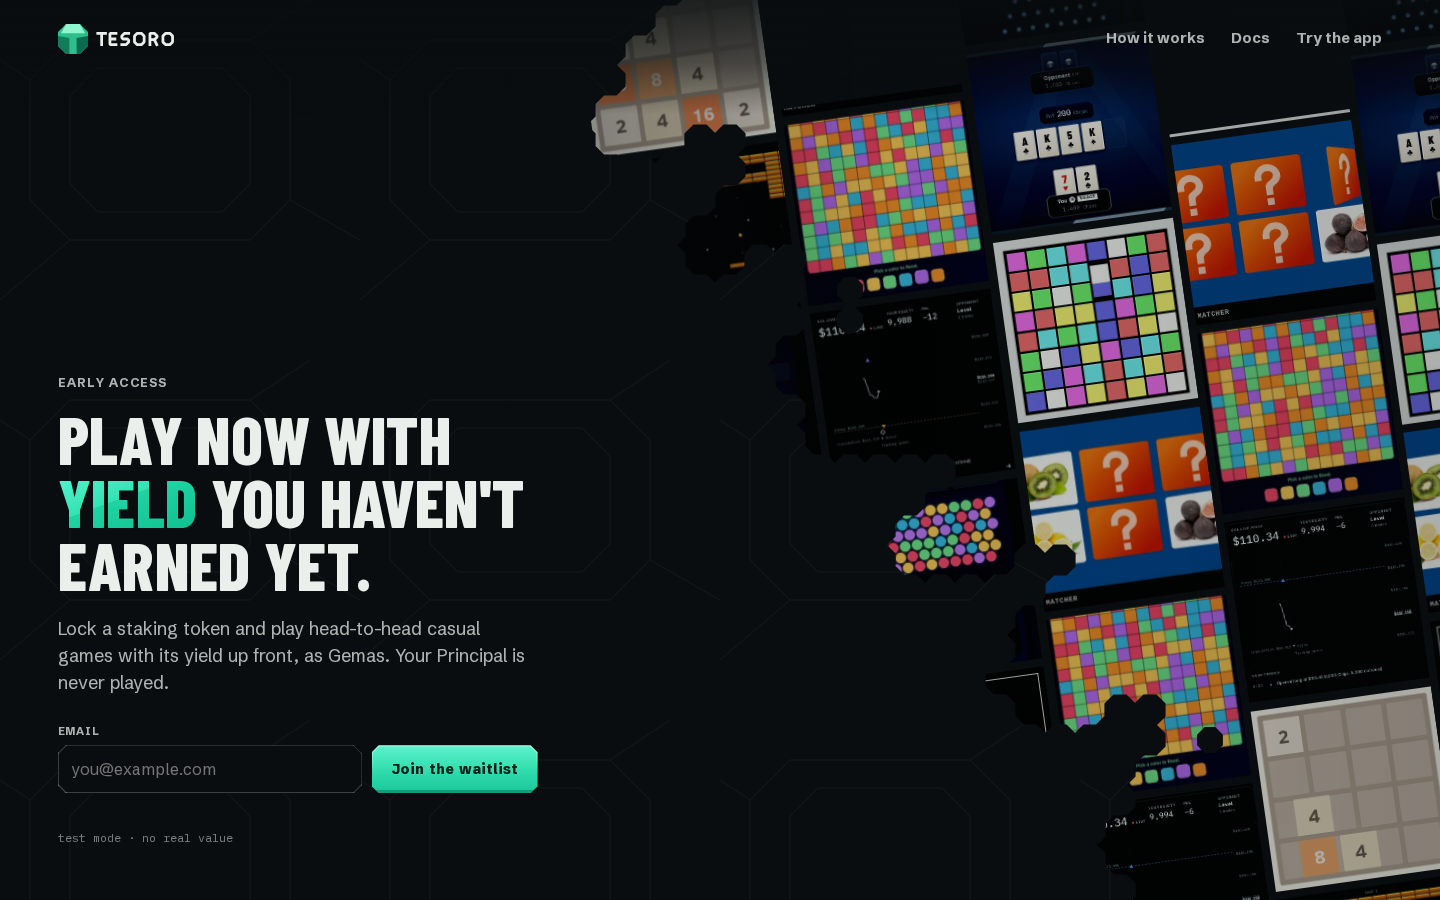
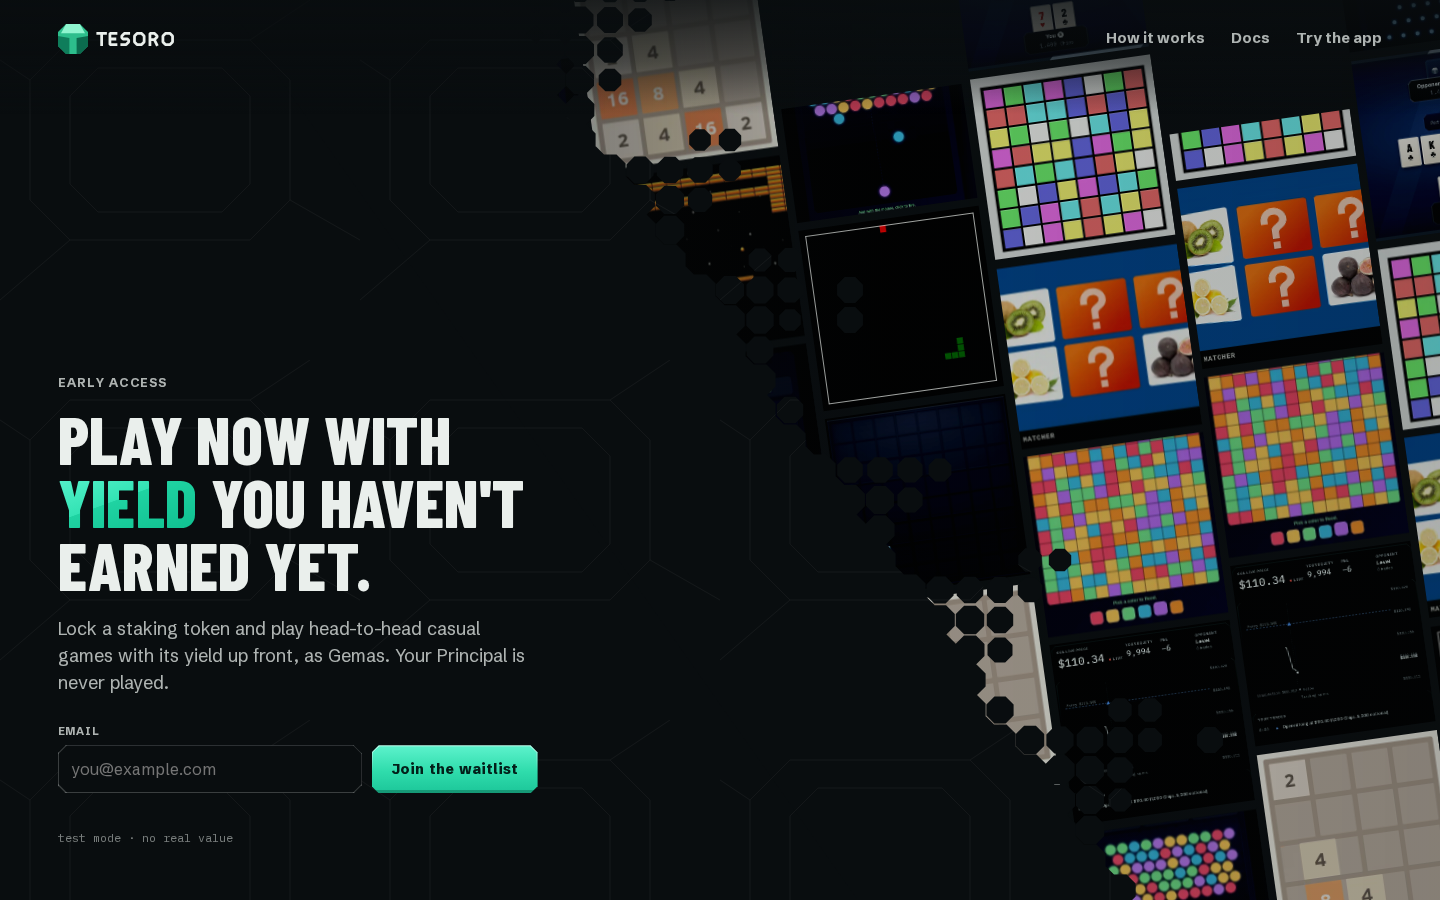
feat(app): waitlist divider keeps g1's fingers, adds spacing between growth gems
Growth-zone gems are no longer fused: each is drawn smaller than its cell so a thin gap of footage shows. Three spacings under ?s=1|2|3 (tight 86%, graded 100 to 72%, open graded 100 to 62% with more breakaways), default graded. Removes the other growth tunings and the g switcher.

Changed region(s): [[0.4062, 0.0, 1.0, 1.0], [0.5, 0.28, 0.5312, 0.3111]]

diff --git a/app/src/components/waitlist/dividers/octa.ts b/app/src/components/waitlist/dividers/octa.ts
@@ -9,8 +9,8 @@ import { along, bed, dist, geo, polyD, type Frame, type Geo, type Pt } from "./g
  */
 export const TILE_CENTRE = { x: 160, y: 140 };
 
-/** 1 fingers, 2 clumps, 3 mixed. */
-export type Tuning = 1 | 2 | 3;
+/** How tightly the growth zone's gems pack: 1 tight, 2 graded, 3 open graded. */
+export type Spacing = 1 | 2 | 3;
 
 export type Field = { g: Geo; frame: Frame; pitch: number; /** solid band, px past the diagonal */ band: number; /** size factor against 1440 wide */ unit: number };
 
@@ -28,38 +28,19 @@ export function hash(a: number, b: number, salt = 0) {
   return ((h ^ (h >>> 16)) >>> 0) / 4294967296;
 }
 
-type Bump = { c: number; w: number; a: number };
 
-/** How far past the band each stretch of the diagonal may grow, px: a few seeded bumps over a small base. */
-function reachProfile(fl: Field, tuning: Tuning): (s: number) => number {
+/** How far past the band each stretch of the diagonal may grow, px: 5 to 7 long fingers (6 on desktop, 3 on a phone) over a small base. */
+function reachProfile(fl: Field): (s: number) => number {
   const { len } = fl.g;
   const u = fl.unit;
-  const tall = fl.frame.kind === "tall";
-  const bumps: Bump[] = [];
-  const spread = (n: number, salt: number, width: (r: number) => number, amp: (r: number) => number) => {
-    for (let k = 0; k < n; k++) {
-      const r = hash(k, salt, 7);
-      bumps.push({ c: (len * (k + 0.5 + (hash(k, salt, 8) - 0.5) * 0.5)) / n, w: width(r) * u, a: amp(r) * u });
-    }
-  };
-  let base = 14;
-  if (tuning === 1) {
-    // Fewer, longer fingers: 5 to 7 across the diagonal.
-    spread(tall ? 3 : 6, 1, (r) => 34 + r * 20, (r) => 115 + r * 70);
-    base = 10;
-  } else if (tuning === 2) {
-    // Rounded lumps along the front, shorter reach.
-    spread(tall ? 5 : 9, 2, (r) => 62 + r * 30, (r) => 40 + r * 55);
-    base = 18;
-  } else {
-    // Lumps with a couple of longer fingers.
-    spread(tall ? 4 : 7, 3, (r) => 56 + r * 26, (r) => 36 + r * 50);
-    const fingers = tall ? [0.3, 0.72] : [0.22, 0.63];
-    fingers.forEach((f, k) => bumps.push({ c: len * (f + (hash(k, 4, 9) - 0.5) * 0.08), w: 30 * u, a: (150 + hash(k, 5, 9) * 40) * u }));
-    base = 14;
+  const n = fl.frame.kind === "tall" ? 3 : 6;
+  const bumps: { c: number; w: number; a: number }[] = [];
+  for (let k = 0; k < n; k++) {
+    const r = hash(k, 1, 7);
+    bumps.push({ c: (len * (k + 0.5 + (hash(k, 1, 8) - 0.5) * 0.5)) / n, w: (34 + r * 20) * u, a: (115 + r * 70) * u });
   }
   return (s) => {
-    let r = base * u;
+    let r = 10 * u;
     for (const b of bumps) r = Math.max(r, b.a * Math.exp(-(((s - b.c) / b.w) ** 2)));
     return r;
   };
@@ -67,13 +48,13 @@ function reachProfile(fl: Field, tuning: Tuning): (s: number) => number {
 
 export type Site = { i: number; j: number; x: number; y: number; d: number; s: number };
 /** 1 solid band, 2 grown (connected), 3 breakaway. */
-export type Growth = { fl: Field; state: Map<number, 1 | 2 | 3>; sites: Site[]; at: (i: number, j: number) => 0 | 1 | 2 | 3 };
+export type Growth = { fl: Field; state: Map<number, 1 | 2 | 3>; sites: Site[]; at: (i: number, j: number) => 0 | 1 | 2 | 3; /** how far the growth may reach past the band at this position along the diagonal */ reachAt: (s: number) => number };
 
 /** The grown layout for a frame: which lattice sites carry a gem and of which kind. */
-export function growth(frame: Frame, tuning: Tuning = 1): Growth {
+export function growth(frame: Frame, breakShare = 0.06): Growth {
   const fl = field(frame);
   const { g, pitch, band } = fl;
-  const profile = reachProfile(fl, tuning);
+  const profile = reachProfile(fl);
   const i0 = Math.floor((-TILE_CENTRE.x - pitch) / pitch);
   const j0 = Math.floor((-TILE_CENTRE.y - pitch) / pitch);
   const key = (i: number, j: number) => (i + 4096) * 8192 + (j + 4096);
@@ -112,8 +93,7 @@ export function growth(frame: Frame, tuning: Tuning = 1): Growth {
   }
   // Breakaway gems: a few, one empty cell beyond a clump tip, never touching one.
   const grown = sites.filter((s) => state.get(key(s.i, s.j)) === 2).length;
-  const share = tuning === 2 ? 0.04 : tuning === 3 ? 0.08 : 0.06;
-  const want = Math.max(tuning === 2 ? 2 : 3, Math.round(grown * share));
+  const want = Math.max(3, Math.round(grown * breakShare));
   const near = new Set<number>();
   const taken = (i: number, j: number) => state.has(key(i, j));
   const fused = sites.filter((s) => s.d > band + pitch);
@@ -139,7 +119,7 @@ export function growth(frame: Frame, tuning: Tuning = 1): Growth {
     state.set(key(p.site.i, p.site.j), 3);
     sites.push(p.site);
   }
-  return { fl, state, sites, at: (i, j) => state.get(key(i, j)) ?? 0 };
+  return { fl, state, sites, at: (i, j) => state.get(key(i, j)) ?? 0, reachAt: profile };
 }
 
 /** A regular octagon centred at cx, cy measuring `flats` across its flat sides. */
@@ -148,28 +128,44 @@ export function octagon(cx: number, cy: number, flats: number): Pt[] {
   return Array.from({ length: 8 }, (_, k): Pt => [cx + r * Math.cos(Math.PI / 8 + (k * Math.PI) / 4), cy + r * Math.sin(Math.PI / 8 + (k * Math.PI) / 4)]);
 }
 
-/** The ground strip and every gem (as one path), for a frame of this size. Fused gems get the diamonds between them filled. */
-export function dividerScene(frame: Frame, tuning: Tuning = 1): { ground: string; gems: string } {
-  const gr = growth(frame, tuning);
-  const { pitch } = gr.fl;
-  const solid = (i: number, j: number) => {
-    const s = gr.at(i, j);
-    return s === 1 || s === 2;
-  };
+/** Smallest gem size (share of the cell) at a finger tip, per spacing; the band and the foot of a finger are fused (1). */
+const TIP = { 1: 0.86, 2: 0.72, 3: 0.62 } as const;
+
+/** A grown gem's size as a share of its cell: `along` is how far out it is on its finger (0 at the band, 1 at the tip). */
+export function gemSize(spacing: Spacing, along: number): number {
+  if (spacing === 1) return TIP[1];
+  return 1 - (1 - TIP[spacing]) * Math.min(Math.max(along, 0), 1);
+}
+
+/** The ground strip and every gem (as one path), for a frame of this size. The band is fused (diamonds between its gems filled); the growth zone keeps a gap between gems. */
+export function dividerScene(frame: Frame, spacing: Spacing = 2): { ground: string; gems: string } {
+  const gr = growth(frame, spacing === 3 ? 0.1 : 0.06);
+  const { pitch, band } = gr.fl;
+  // Size share per fused site: the band is solid, grown gems shrink towards the tips.
+  const size = (s: Site, kind: number) => (kind === 1 ? 1.04 : kind === 3 ? 0.86 : gemSize(spacing, (s.d - band) / Math.max(gr.reachAt(s.s), 1)));
+  const bySite = new Map<string, { kind: number; size: number }>();
+  for (const s of gr.sites) {
+    const kind = gr.at(s.i, s.j);
+    bySite.set(`${s.i},${s.j}`, { kind, size: size(s, kind) });
+  }
   let gems = "";
   const done = new Set<string>();
   for (const s of gr.sites) {
-    const kind = gr.at(s.i, s.j);
-    gems += polyD(octagon(s.x, s.y, pitch * (kind === 3 ? 0.86 : 1.04)));
-    if (kind === 3) continue;
-    // The four diamonds around this gem: filled where three or more of the four sites around them are fused.
+    const me = bySite.get(`${s.i},${s.j}`)!;
+    gems += polyD(octagon(s.x, s.y, pitch * me.size));
+    if (me.kind === 3) continue;
+    // The four diamonds around this gem: filled where three or more of the sites around them are in the band, or are
+    // fused gems that still fill their cell.
     for (const [a, b] of [[0, 0], [-1, 0], [0, -1], [-1, -1]]) {
       const i = s.i + a;
       const j = s.j + b;
       const id = `${i},${j}`;
       if (done.has(id)) continue;
       done.add(id);
-      if ([solid(i, j), solid(i + 1, j), solid(i, j + 1), solid(i + 1, j + 1)].filter(Boolean).length < 3) continue;
+      const around = [[i, j], [i + 1, j], [i, j + 1], [i + 1, j + 1]].map(([x, y]) => bySite.get(`${x},${y}`));
+      const inBand = around.filter((c) => c?.kind === 1).length;
+      const full = around.filter((c) => c && c.kind !== 3 && c.size >= 0.97).length;
+      if (inBand < 3 && full < 3) continue;
       const cx = TILE_CENTRE.x + (i + 0.5) * pitch;
       const cy = TILE_CENTRE.y + (j + 0.5) * pitch;
       const r = pitch * 0.2929 * 1.08;

diff --git a/app/src/components/waitlist/dividers/octa.test.ts b/app/src/components/waitlist/dividers/octa.test.ts
@@ -1,6 +1,6 @@
 import { describe, expect, it } from "vitest";
 import { LINES } from "../geometry";
-import { dividerScene, growth, type Tuning } from "./octa";
+import { dividerScene, gemSize, growth, type Spacing } from "./octa";
 import type { Frame } from "./geo";
 
 const FRAMES: Frame[] = [
@@ -8,7 +8,7 @@ const FRAMES: Frame[] = [
   { w: 1280, h: 720, kind: "wide" },
   { w: 390, h: 844, kind: "tall" },
 ];
-const TUNINGS: Tuning[] = [1, 2, 3];
+const SPACINGS: Spacing[] = [1, 2, 3];
 
 describe("the split", () => {
   it("divides the wide frame about in half", () => {
@@ -18,47 +18,56 @@ describe("the split", () => {
 });
 
 describe("the growth", () => {
-  for (const tuning of TUNINGS) {
-    for (const f of FRAMES) {
-      const name = `tuning ${tuning} at ${f.w}x${f.h}`;
-      it(`${name}: draws finite shapes, the same ones each time`, () => {
-        const a = dividerScene(f, tuning);
+  for (const f of FRAMES) {
+    const name = `${f.w}x${f.h}`;
+    it(`${name}: grown gems are connected to the band, breakaways stand apart and are few`, () => {
+      const gr = growth(f);
+      const grown = gr.sites.filter((s) => gr.at(s.i, s.j) === 2);
+      const away = gr.sites.filter((s) => gr.at(s.i, s.j) === 3);
+      expect(grown.length).toBeGreaterThan(10);
+      for (const s of grown) {
+        expect([[1, 0], [-1, 0], [0, 1], [0, -1]].some(([a, b]) => [1, 2].includes(gr.at(s.i + a, s.j + b)))).toBe(true);
+      }
+      for (const s of away) {
+        for (const a of [-1, 0, 1]) for (const b of [-1, 0, 1]) expect([1, 2]).not.toContain(gr.at(s.i + a, s.j + b));
+      }
+      expect(away.length).toBeLessThanOrEqual(Math.max(3, Math.ceil(grown.length * 0.1)));
+    });
+
+    it(`${name}: the band is solid and the growth stays within reach`, () => {
+      const gr = growth(f);
+      const { band, unit } = gr.fl;
+      expect(Math.max(...gr.sites.filter((s) => gr.at(s.i, s.j) === 2).map((s) => s.d - band))).toBeLessThanOrEqual(270 * unit);
+      for (const s of gr.sites) if (s.d <= band) expect(gr.at(s.i, s.j)).toBe(1);
+    });
+
+    for (const sp of SPACINGS) {
+      it(`${name}, spacing ${sp}: finite shapes, the same ones each time`, () => {
+        const a = dividerScene(f, sp);
         expect(a.gems.length).toBeGreaterThan(2000);
         expect(a.gems + a.ground).not.toMatch(/NaN|Infinity/);
-        expect(dividerScene(f, tuning)).toEqual(a);
-      });
-
-      it(`${name}: grown gems are connected to the band, breakaways stand apart and are few`, () => {
-        const gr = growth(f, tuning);
-        const grown = gr.sites.filter((s) => gr.at(s.i, s.j) === 2);
-        const away = gr.sites.filter((s) => gr.at(s.i, s.j) === 3);
-        expect(grown.length).toBeGreaterThan(10);
-        for (const s of grown) {
-          const linked = [[1, 0], [-1, 0], [0, 1], [0, -1]].some(([a, b]) => [1, 2].includes(gr.at(s.i + a, s.j + b)));
-          expect(linked).toBe(true);
-        }
-        for (const s of away) {
-          for (const a of [-1, 0, 1]) for (const b of [-1, 0, 1]) expect([1, 2]).not.toContain(gr.at(s.i + a, s.j + b));
-        }
-        expect(away.length).toBeLessThanOrEqual(Math.max(3, Math.ceil(grown.length * 0.1)));
-      });
-
-      it(`${name}: the band is solid and the growth stays within reach`, () => {
-        const gr = growth(f, tuning);
-        const { band, unit } = gr.fl;
-        const reach = Math.max(...gr.sites.filter((s) => gr.at(s.i, s.j) === 2).map((s) => s.d - band));
-        expect(reach).toBeLessThanOrEqual(270 * unit);
-        for (const s of gr.sites) if (s.d <= band) expect(gr.at(s.i, s.j)).toBe(1);
+        expect(dividerScene(f, sp)).toEqual(a);
       });
     }
   }
 
-  it("the tunings differ: fingers reach further than clumps", () => {
+  it("more breakaway gems with the open spacing", () => {
     const f = FRAMES[0];
-    const far = (t: Tuning) => {
-      const gr = growth(f, t);
-      return Math.max(...gr.sites.filter((s) => gr.at(s.i, s.j) === 2).map((s) => s.d));
-    };
-    expect(far(1)).toBeGreaterThan(far(2));
+    const count = (sp: Spacing) => (dividerScene(f, sp).gems.match(/M/g) ?? []).length;
+    expect(count(3)).toBeGreaterThanOrEqual(count(2));
+  });
+});
+
+describe("gem size", () => {
+  it("tight is uniform at 86%", () => {
+    for (const t of [0, 0.5, 1]) expect(gemSize(1, t)).toBe(0.86);
+  });
+  it("graded shrinks from fused to 72% at the tips, open graded to 62%", () => {
+    expect(gemSize(2, 0)).toBe(1);
+    expect(gemSize(2, 1)).toBeCloseTo(0.72);
+    expect(gemSize(3, 0)).toBe(1);
+    expect(gemSize(3, 1)).toBeCloseTo(0.62);
+    expect(gemSize(2, 0.5)).toBeGreaterThan(gemSize(2, 1));
+    expect(gemSize(2, 2)).toBeCloseTo(0.72);
   });
 });

diff --git a/app/src/components/waitlist/DividerLive.tsx b/app/src/components/waitlist/DividerLive.tsx
@@ -3,7 +3,7 @@
 import { useSyncExternalStore } from "react";
 import { DividerSvg } from "./DividerSvg";
 import type { Frame, Kind } from "./dividers/geo";
-import type { Tuning } from "./dividers/octa";
+import type { Spacing } from "./dividers/octa";
 
 const subscribe = (notify: () => void) => {
   addEventListener("resize", notify);
@@ -15,43 +15,43 @@ const frameKey = () => {
   return el ? `${el.clientWidth}x${el.clientHeight}x${matchMedia("(max-width: 640px)").matches ? "tall" : "wide"}` : "";
 };
 
-const subscribeTuning = (notify: () => void) => {
+const subscribeSpacing = (notify: () => void) => {
   addEventListener("popstate", notify);
   return () => removeEventListener("popstate", notify);
 };
-/** `?g=1|2|3` picks a growth tuning while the founder compares them; empty otherwise. */
-const tuningParam = () => new URLSearchParams(location.search).get("g") ?? "";
+/** `?s=1|2|3` picks a spacing while the founder compares them; empty otherwise. */
+const spacingParam = () => new URLSearchParams(location.search).get("s") ?? "";
 
 /** The divider laid out for the frame's real size. It fades in over the server's design-size layout. */
 export function DividerLive() {
   const key = useSyncExternalStore(subscribe, frameKey, () => "");
-  const g = useSyncExternalStore(subscribeTuning, tuningParam, () => "");
+  const sp = useSyncExternalStore(subscribeSpacing, spacingParam, () => "");
   if (!key) return null;
   const [w, h, kind] = key.split("x");
   const frame: Frame = { w: Number(w), h: Number(h), kind: kind as Kind };
-  const tuning = (["1", "2", "3"].includes(g) ? Number(g) : 1) as Tuning;
+  const spacing = (["1", "2", "3"].includes(sp) ? Number(sp) : 2) as Spacing;
   return (
     <>
-      <DividerSvg key={tuning} frame={frame} tuning={tuning} id="dv-live" className="dv dv-live" />
-      {g && <Switcher tuning={tuning} />}
+      <DividerSvg key={spacing} frame={frame} spacing={spacing} id="dv-live" className="dv dv-live" />
+      {sp && <Switcher spacing={spacing} />}
     </>
   );
 }
 
-const NAMES = { 1: "Fingers", 2: "Clumps", 3: "Mixed" } as const;
+const NAMES = { 1: "Tight", 2: "Graded", 3: "Open graded" } as const;
 
-/** Temporary: only while `g` is in the URL. */
-function Switcher({ tuning }: { tuning: Tuning }) {
-  const pick = (k: Tuning) => {
+/** Temporary: only while `s` is in the URL. */
+function Switcher({ spacing }: { spacing: Spacing }) {
+  const pick = (k: Spacing) => {
     const url = new URL(location.href);
-    url.searchParams.set("g", String(k));
+    url.searchParams.set("s", String(k));
     history.replaceState(null, "", url);
     dispatchEvent(new PopStateEvent("popstate"));
   };
   return (
-    <div className="dv-switch" role="group" aria-label="Growth tuning">
+    <div className="dv-switch" role="group" aria-label="Gem spacing">
       {([1, 2, 3] as const).map((k) => (
-        <button key={k} type="button" className="cut cut-chip" aria-pressed={tuning === k} title={NAMES[k]} onClick={() => pick(k)}>
+        <button key={k} type="button" className="cut cut-chip" aria-pressed={spacing === k} title={NAMES[k]} onClick={() => pick(k)}>
           {k}
         </button>
       ))}

diff --git a/app/src/components/waitlist/DividerSvg.tsx b/app/src/components/waitlist/DividerSvg.tsx
@@ -1,4 +1,4 @@
-import { dividerScene, type Tuning } from "./dividers/octa";
+import { dividerScene, type Spacing } from "./dividers/octa";
 import type { Frame } from "./dividers/geo";
 
 /**
@@ -6,8 +6,8 @@ import type { Frame } from "./dividers/geo";
  * origin so the texture runs on across them. Plain markup (no hooks), so the server can draw it too. `stretch` fits a
  * design-size layout to whatever frame it lands in (used for the first paint and without JavaScript).
  */
-export function DividerSvg({ frame, id, className, stretch = false, tuning = 1 }: { frame: Frame; id: string; className: string; stretch?: boolean; tuning?: Tuning }) {
-  const { ground, gems } = dividerScene(frame, tuning);
+export function DividerSvg({ frame, id, className, stretch = false, spacing = 2 }: { frame: Frame; id: string; className: string; stretch?: boolean; spacing?: Spacing }) {
+  const { ground, gems } = dividerScene(frame, spacing);
   return (
     <svg className={className} viewBox={`0 0 ${frame.w} ${frame.h}`} preserveAspectRatio={stretch ? "none" : undefined} aria-hidden focusable="false">
       <defs>

diff --git a/app/src/components/waitlist/waitlist.css b/app/src/components/waitlist/waitlist.css
@@ -64,7 +64,7 @@ html:has(.wl), body:has(.wl) { background: #090d0f; }
 .dv-ssr { transition: opacity 0.6s ease-out; }
 .dv-live { animation: dv-in 0.6s ease-out both; }
 .wl:has(.dv-live) .dv-ssr { opacity: 0; }
-/* Temporary growth switcher (?g=1..3). */
+/* Temporary growth switcher (?s=1..3). */
 .dv-switch { position: fixed; z-index: 60; right: 14px; bottom: 14px; display: flex; gap: 6px; padding: 6px; background: rgba(9, 13, 15, 0.86); border: 1px solid var(--line-2); }
 .dv-switch button { min-width: 34px; min-height: 34px; padding: 0 8px; border: 0; background: var(--raised-2); color: var(--fg); font-weight: 800; --edge: var(--edge-2); }
 .dv-switch button[aria-pressed="true"] { background: var(--fg); color: #090d0f; }

diff --git a/DESIGN.md b/DESIGN.md
@@ -210,8 +210,8 @@ The home page until launch; the landing it replaced is `/welcome`. Code: `app/sr
 - **Layout.** The form is bottom left, the panel's gems break into game footage that fills the other half. The diagonal is one constant (`waitlist/geometry.ts`): the video wall's `clip-path`, the solid floor under the form and the divider are all derived from it, so they line up at every size. Phone: footage in the top ~40%, the form below; the top bar is only the logo and "Try the app" (How it works and Docs sit in a small row under the form), and a top scrim keeps the bar readable over footage at every width.
 - **Background texture.** The floor (everything below the diagonal) carries the landing's octagon outline texture: the same SVG as `--lp-texture` in `landing.css` at the same 360px scale and opacity (repeated in `waitlist.css` as `--wl-texture`, dark version, because the light theme redefines the landing's variable and this frame stays dark).
 - **The split.** The diagonal runs from the top edge at 28% across to the bottom edge at 72%, so the dark panel and the video wall each take half of the wide frame (phone: a flatter line across the middle, top half footage). One constant (`geometry.ts` `LINES`) drives the wall's clip-path, the floor and the divider.
-- **The divider is the panel growing into the footage** (`Divider.tsx`, `dividers/octa.ts`). Small flat octagon gems in exactly the panel's colour and texture (an SVG pattern anchored at the frame origin, so the texture runs on across them), no outlines, shadows, jewel colours or hollow cells. They sit on a 30px grid (20px on a phone) that divides the texture tile and is centred on its octagon centres, so texture lines run along gem rows. A solid band (~76px past the line) is the panel's edge; from it, connected clumps and fingers of fused gems grow outward (deterministic, Eden-like: a seeded reach profile along the diagonal says how far each stretch may grow, only sites linked edge to edge to the band survive, so the tips are ragged and gem-shaped), at most about 260px past the line. Connected gems are fused: the diamond between four sites is filled wherever three or more are fused, so a clump reads as one surface. Only a few breakaway gems (3 to 8% of the growth), one empty cell beyond a tip, and never touching a clump. The floor's straight edge is pulled back under the band (`INSET`, `clipBelowInset`). Static; the exact layout only fades in over the first paint, and not at all under reduced motion.
-- **Growth tunings (under review).** `/?g=1|2|3` with a small switcher (only while `g` is present): 1 fingers (default; 5 to 7 long fingers), 2 clumps (rounded lumps, shortest reach), 3 mixed (lumps, two long fingers, more breakaway gems). Once one is picked, remove the other tunings and the switcher (`DividerLive.tsx`).
+- **The divider is the panel growing into the footage** (`Divider.tsx`, `dividers/octa.ts`). Small flat octagon gems in exactly the panel's colour and texture (an SVG pattern anchored at the frame origin, so the texture runs on across them), no outlines, shadows, jewel colours or hollow cells. They sit on a 30px grid (20px on a phone) that divides the texture tile and is centred on its octagon centres, so texture lines run along gem rows. A solid, fused band (~76px past the line) is the panel's edge. From it, 6 long fingers (3 on a phone) of connected gems grow outward (deterministic, Eden-like: a seeded reach profile along the diagonal says how far each stretch may grow, only sites linked edge to edge to the band survive, so the tips are ragged and gem-shaped), at most about 260px past the line, plus a few breakaway gems (about 6% of the growth) one empty cell beyond a tip. In the growth zone the gems are not fused: each is drawn smaller than its cell so a thin gap of footage shows between neighbours, the centres staying on the lattice. The corner diamonds are filled only in the band and where gems still fill their cell. The floor's straight edge is pulled back under the band (`INSET`, `clipBelowInset`). Static; the exact layout only fades in over the first paint, and not at all under reduced motion.
+- **Gem spacing (under review).** `/?s=1|2|3` with a small switcher (only while `s` is present): 1 tight (every growth gem at 86% of its cell), 2 graded (default; 100% where a finger meets the band, 72% at the tips), 3 open graded (100% to 62%, and up to about 10% breakaway gems). Once one is picked, remove the other two and the switcher (`DividerLive.tsx`).
 - **No JavaScript.** The server draws the divider for a 1440x900 and a 390x844 frame, stretched to the screen (`preserveAspectRatio="none"`; CSS shows the one that fits), so the first paint and a page without JavaScript have the pattern. After hydration the layout for the real frame size fades in over it (`DividerLive.tsx`).
 - **Video wall.** Eleven screen recordings of games being played, square tiles: Tesoro's three Games (Block Puzzle, Hold'em, Trading Duel, recorded from the app's practice mode) and eight open-source casual web games (2048, a match-3, bubble shooter, breakout, a memory game, snake, plinko, color flood; all MIT, cloned outside the repo into `art-source/waitlist/games`, never vendored; licences and repos in `art-source/waitlist/sources.json` and `CREDITS.md`; none copies a trademarked title or look). Recorded by `scripts/record-waitlist-games.mjs` (CDP screencast, scripted or bot play), turned into `public/art/waitlist/clip-N.{webm,mp4,webp}` by `scripts/import-waitlist-clips.mjs`. Tilted columns drift in opposite directions: 7 columns on a wide screen, 6 on a laptop, 5 on a tablet, 4 on a phone (tiles 140-220px). `buildColumns` (`clips.ts`, tested) never puts a clip next to itself. `muted loop playsInline preload="none"`, WebM then MP4, WebP poster. At most 10 tiles play at once (6 on a phone): only those above the diagonal and on screen, the first four on load and the rest when the browser is idle; the others show their poster. Reduced motion or Save-Data: posters only, no drift.
 - **Join is the page's single primary CTA**, drawn as the landing's Launch app button (`btn money cut cut-btn`). This is the one place emerald is a form submit rather than Gemas moving: the page has no Gemas, and the button is the only action it asks for. "Try the app" in the top bar is plain text.
